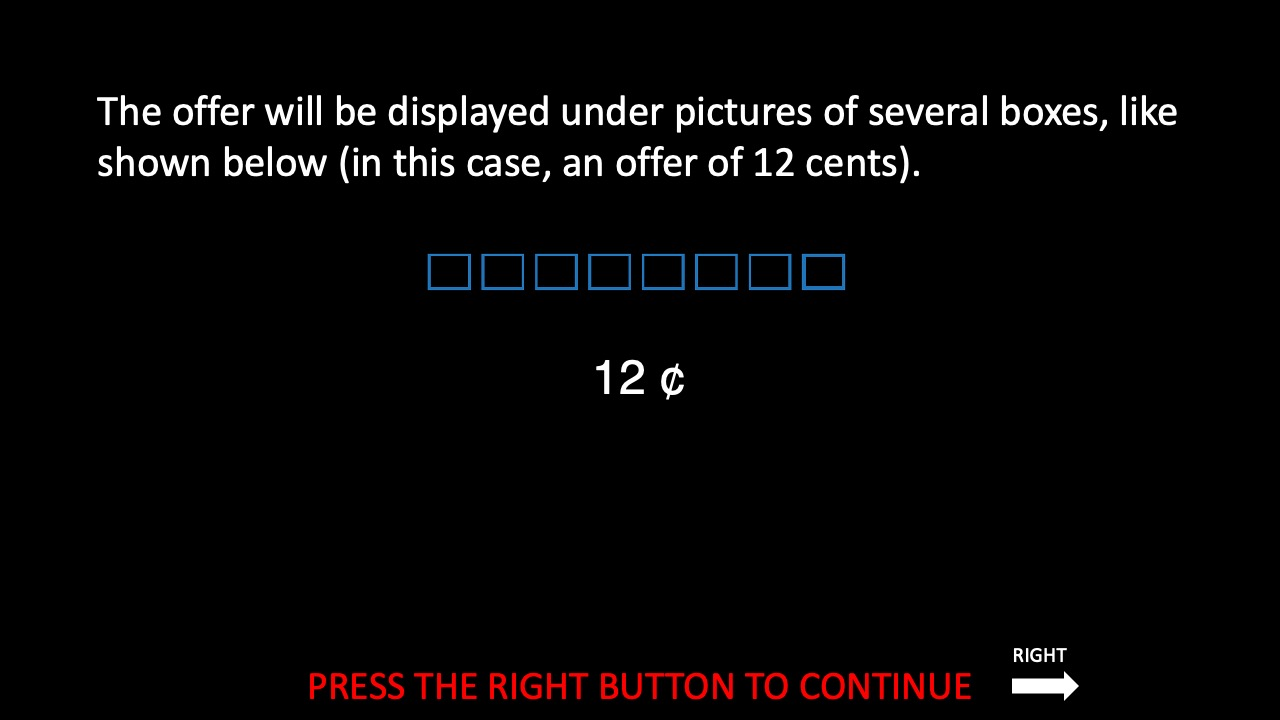
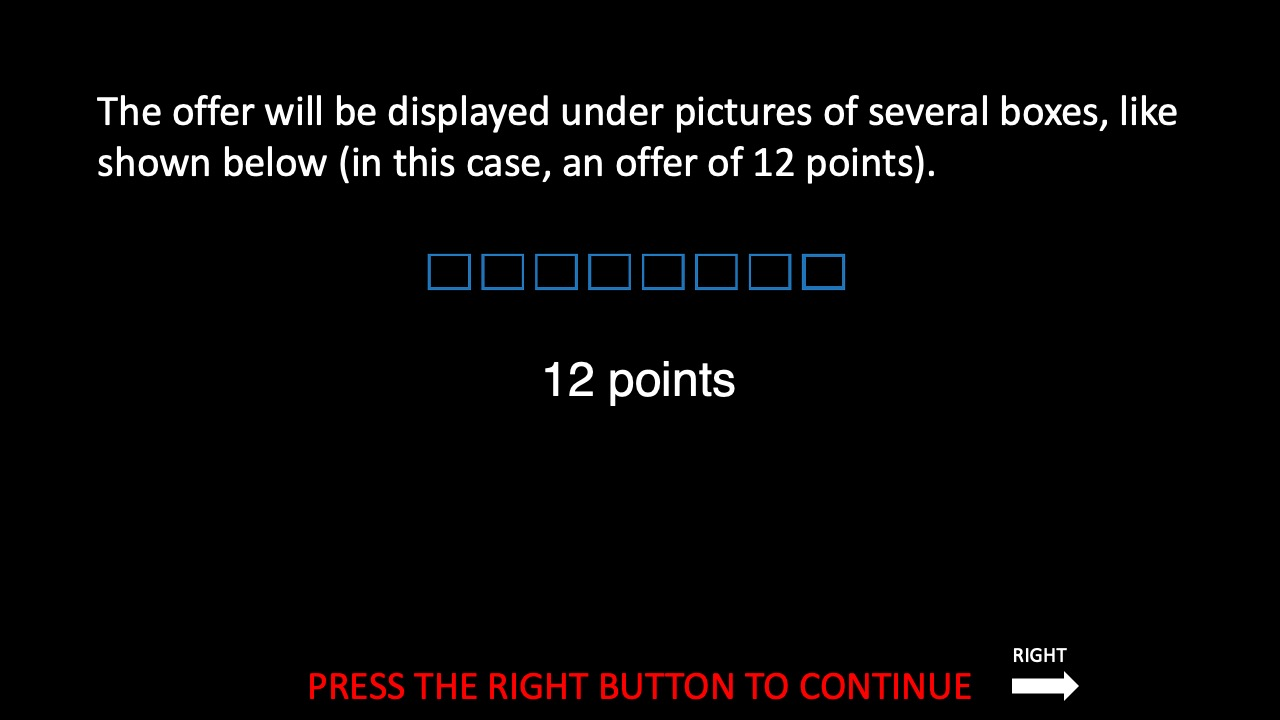
changes all mention of cents to points

Changed region(s): [[0.4062, 0.4889, 0.5938, 0.55], [0.625, 0.1833, 0.75, 0.2444]]

diff --git a/public/js/tasks/limited_offer/limited_offer.js b/public/js/tasks/limited_offer/limited_offer.js
@@ -397,7 +397,7 @@ function experimentInit() {
 	totalPointsTracker = new visual.TextStim({
 		win: psychoJS.window,
 		name: 'pointsTracker',
-		text: 'Total ¢: 0',
+		text: 'Total points: 0',
 		font: 'Arial',
 		units: 'norm',
 		pos: [0, -.9], height: 0.08, wrapWidth: undefined, ori: 0,
@@ -699,13 +699,13 @@ function trialRoutineBegin(trials) {
 		// update component parameters for each repeat
 		// word.setColor(new util.Color(letterColor));
 		
-		offer_stim_text.setText(initial_offer + ' ¢') // Set the Current Offer
+		offer_stim_text.setText(initial_offer + ' points') // Set the Current Offer
 
 		globalTrialNumber = globalTrialNumber + 1
 		
 		
 		currentTrialNumber.setText(`Trial Number: ${globalTrialNumber} / 108`)
-		totalPointsTracker.setText(`Total ¢: ${totalPoints}`)
+		totalPointsTracker.setText(`Total points: ${totalPoints}`)
 	
 		resp.keys = undefined;
 		resp.rt = undefined;
@@ -747,11 +747,11 @@ function trialRoutineEachFrame(trials) {
 		// Withdraw or High offer depedning on schedule
 		if (waited) {
 			if ( (time_point + 1) == ts_high) {
-				offer_stim_text.setText(highOfferVal + ' ¢')
+				offer_stim_text.setText(highOfferVal + ' points')
 			}
 			if ((time_point + 1) == ts_withdrawal) {
 				offer_withdrew = true;
-				offer_stim_text.setText(0 + ' ¢')
+				offer_stim_text.setText(0 + ' points')
 				// offer_stim_text.setText('Offer revoked')
 			}
 		}
@@ -865,7 +865,7 @@ function trialRoutineEachFrame(trials) {
 						wait_rect_stim.width += .02
 
 						wait_text_stim.color = new util.Color('white')
-						// totalPoints = totalPoints + offer_rect.text.replace(' ', '¢')
+						// totalPoints = totalPoints + offer_rect.text.replace(' ', 'points')
 					}
 					
 				} 
@@ -974,13 +974,13 @@ function trialRoutineEachFrame(trials) {
 			//  to be displayed at trial end
 			
 			if (missed) {
-				points_fixation_stim.setText(`Missed - Offer Lost \n\nYou have won ${current_point} ¢ in this trial`)
+				points_fixation_stim.setText(`Missed - Offer Lost \n\nYou have won ${current_point} points in this trial`)
 			}
 			else if (offer_withdrew) {
-				points_fixation_stim.setText(`Offer Revoked \n\nYou have won ${current_point} ¢ in this trial`)
+				points_fixation_stim.setText(`Offer Revoked \n\nYou have won ${current_point} points in this trial`)
 			}
 			else {
-				points_fixation_stim.setText(`You have won ${current_point} ¢ in this trial`)
+				points_fixation_stim.setText(`You have won ${current_point} points in this trial`)
 			}
 			
 			psychoJS.experiment.addData(`points_won`, current_point);
@@ -1101,7 +1101,7 @@ function trialRoutineEnd(trials) {
 		if (offer_stim_text.getText() != 'X') {
 			if (!Number.isNaN(offer_stim_text.getText())) {
 				console.log(offer_stim_text.getText())
-				totalPoints = totalPoints + parseInt(offer_stim_text.getText().replace(' ¢', ''))
+				totalPoints = totalPoints + parseInt(offer_stim_text.getText().replace(' points', ''))
 			}
 		}
 		
@@ -1134,7 +1134,11 @@ function thanksRoutineBegin(trials) {
 		t = 0;
 		thanksClock.reset(); // clock
 		frameN = -1;
-		routineTimer.add(2.000000);
+		routineTimer.add(13.000000);
+
+		// Show Final Points and money earned
+		// 100 points = 10 cents
+		thanksText.setText(`This is the end of the task run.\n\n\n Total Points Earned: ${totalPoints} \n\n Total Cents Earned: ${totalPoints / 10 } =  $${totalPoints / 1000}`)
 		// update component parameters for each repeat
 		// keep track of which components have finished
 		thanksComponents = [];

diff --git a/public/js/tasks/horizon/horizon.js b/public/js/tasks/horizon/horizon.js
@@ -1261,7 +1261,6 @@ function thanksRoutineBegin(trials) {
 		// keep track of which components have finished
 
 		// Show Final Points and money earned
-		console.log(totalPoints)
 		// 100 points = 10 cents
 		thanksText.setText(`This is the end of the task run.\n\n\n Total Points Earned: ${totalPoints} \n\n Total Cents Earned: ${totalPoints / 10 } =  $${totalPoints / 1000}`)
 
